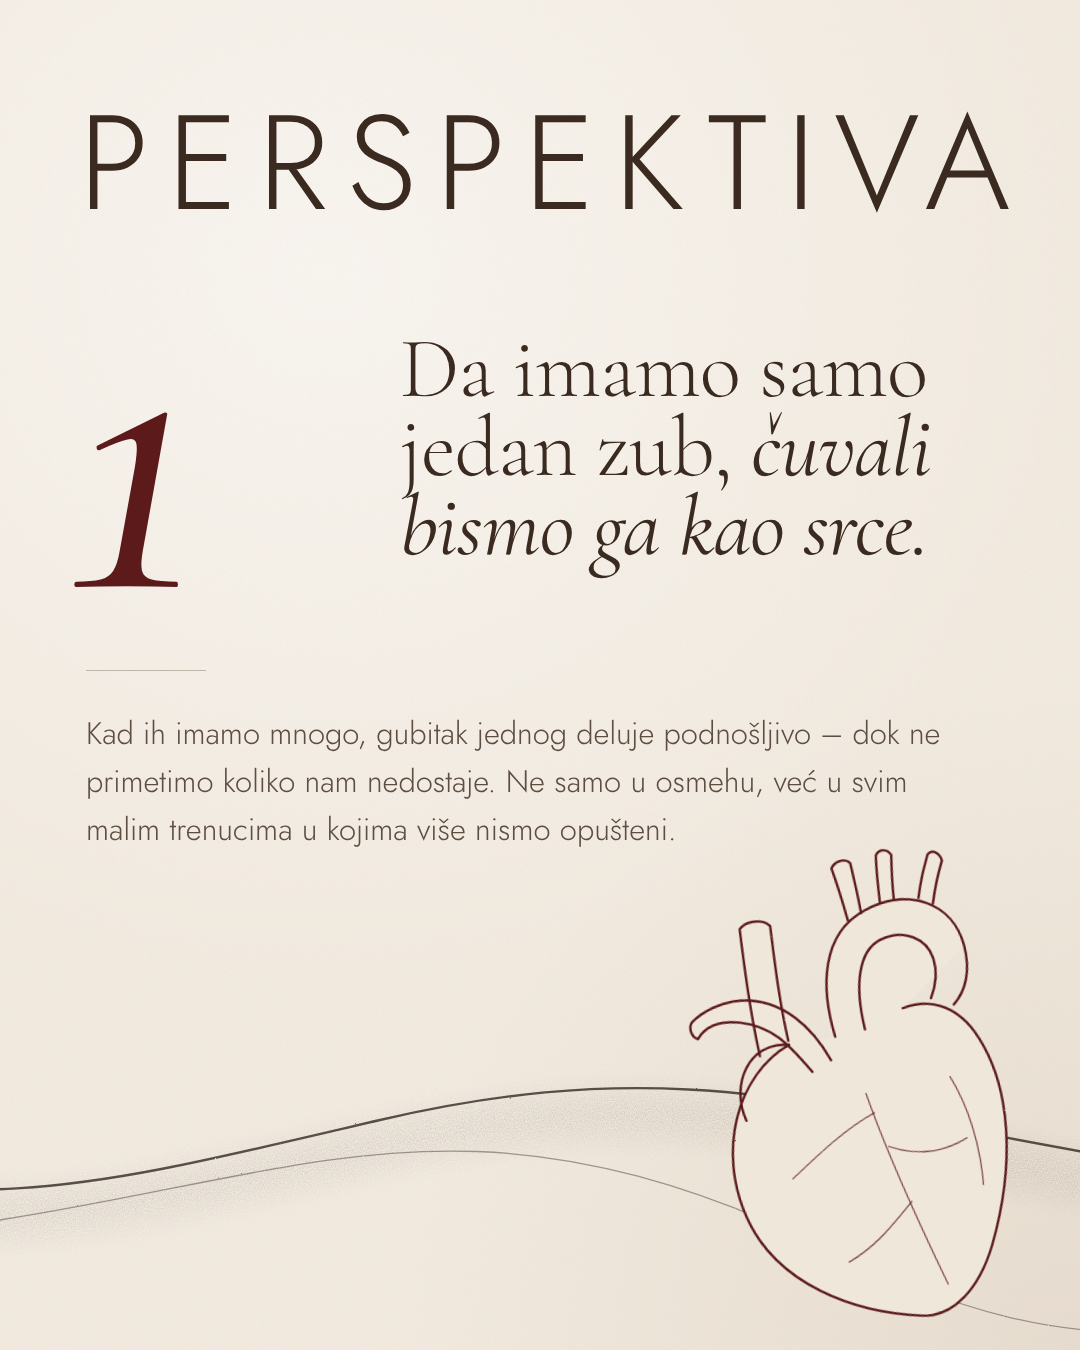
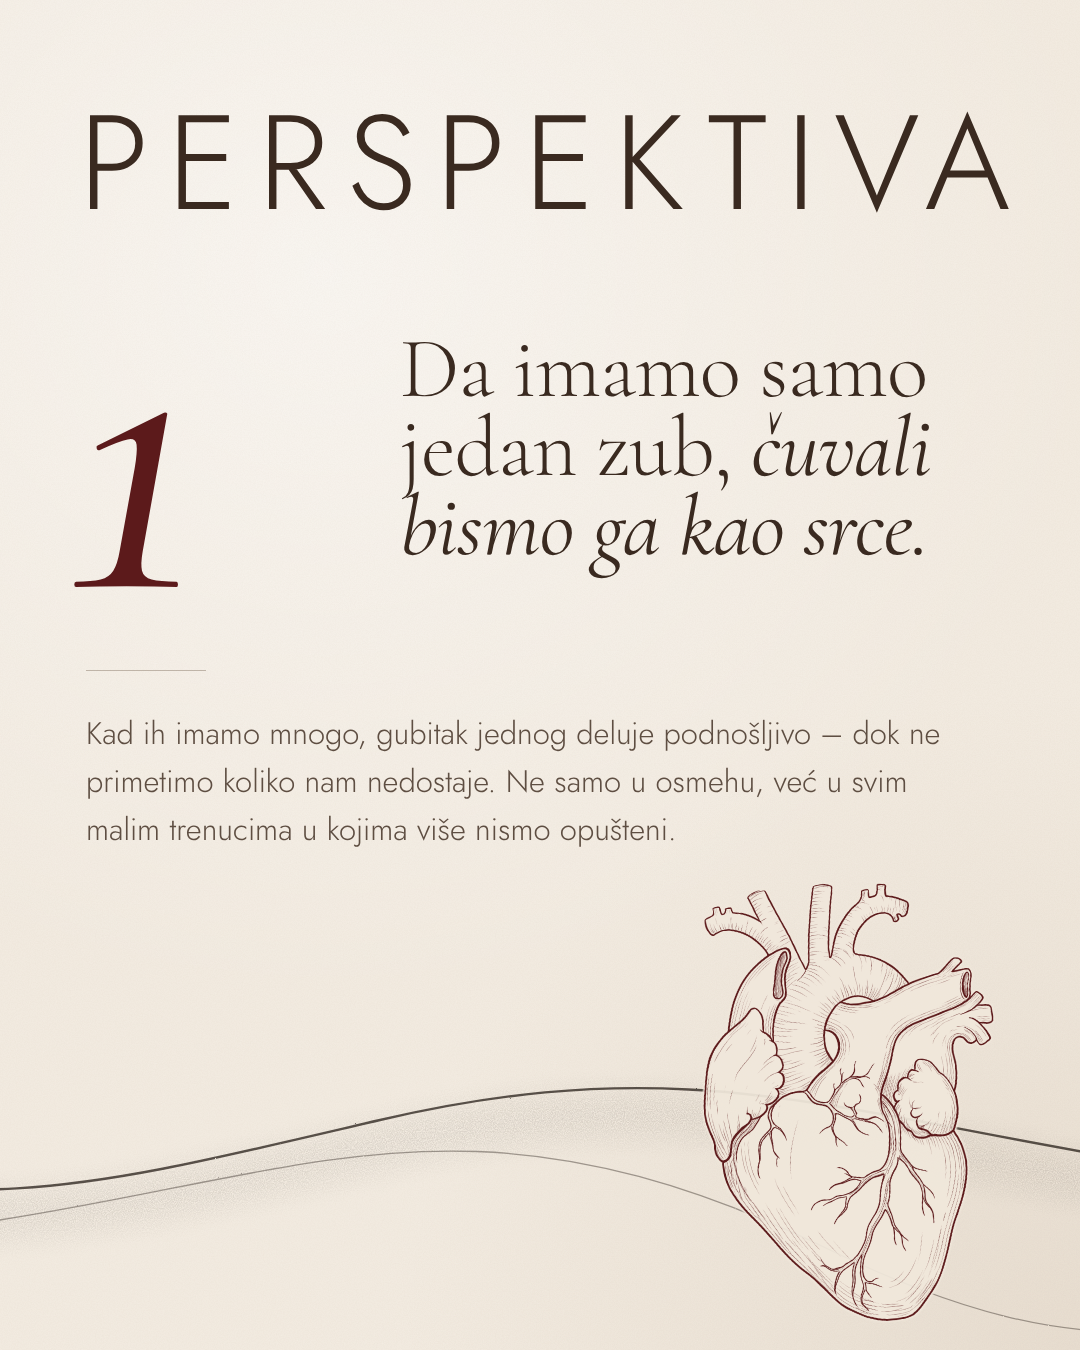
Olujić carousel: precise fine-line anatomical heart (bordo) on Perspektiva
Claude-Session: https://claude.ai/code/session_015Zt4Xxmto9TPrfhFawYg1y

Changed region(s): [[0.6417, 0.6222, 0.9472, 0.9956], [0.7028, 0.9022, 0.7333, 0.9333]]

diff --git a/olujic/karusel_tihe_promene/izvor/karusel3.html b/olujic/karusel_tihe_promene/izvor/karusel3.html
@@ -97,7 +97,7 @@ body{background:#999;font-family:Jost}
   <div class="abs z fit" style="left:60px;right:60px;top:96px;text-align:center;white-space:nowrap;font-family:Jost;font-weight:300;letter-spacing:.14em;text-transform:uppercase;color:var(--ink);line-height:1">Perspektiva</div>
   <div class="abs disp z" style="left:70px;top:260px;font-size:440px;color:var(--bordo);line-height:.85"><i>1</i></div>
   <div class="abs disp z" style="left:400px;top:330px;font-size:86px;width:600px">Da imamo samo jedan zub, <i>čuvali bismo ga kao srce.</i></div>
-  <svg id="heart" class="abs" style="left:0;top:0;width:1080px;height:1350px;z-index:3;overflow:visible" viewBox="0 0 1080 1350"></svg>
+  <img src="srce_bordo.png" class="abs" style="left:700px;top:878px;width:305px;z-index:3;transform:rotate(-6deg)"><svg id="heart" style="display:none"></svg>
   <div class="abs rule z" style="left:86px;top:670px;width:120px"></div>
   <div class="abs body z" style="left:86px;top:710px;width:880px">Kad ih imamo mnogo, gubitak jednog deluje podnošljivo – dok ne primetimo koliko nam nedostaje. Ne samo u osmehu, već u svim malim trenucima u kojima više nismo opušteni.</div>
 </div>
